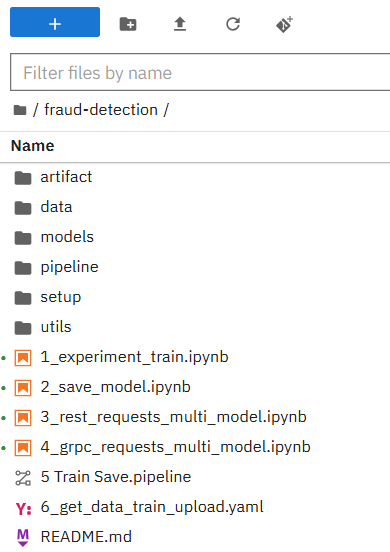
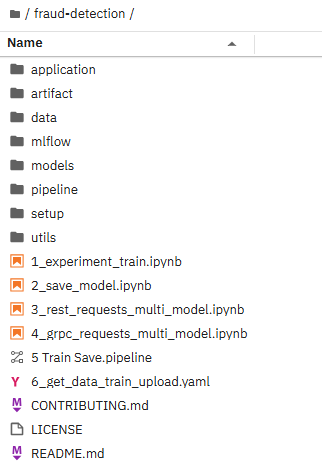
added mlflow setup

diff --git a/docs/openshift-ai/other-projects/fraud-detection-predictive-ai-app.md b/docs/openshift-ai/other-projects/fraud-detection-predictive-ai-app.md
@@ -770,6 +770,46 @@ double click it and execute the "Run" button to run all notebook cells at once.
 This process will take some time to complete. At the end, it will generate and
 save the model `model.onnx` within the `models/fraud/1/` folder path of `fraud-detection`.
 
+##### Adding MLflow to Training Code
+
+!!! info "What is MLflow?"
+
+    [MLflow](../../other-tools/mlflow/mlflow-overview.md) is an open-source platform
+    that helps manage the entire machine learning lifecycle, including experimentation,
+    reproducibility, deployment, and model management. For more information about
+    how to set up your own MLflow server, read [this user guide](../../other-tools/mlflow/mlflow-server-setup.md).
+
+In your Jupyter notebook environment, within the root folder path of `fraud-detection`,
+find the `mlflow` directory. It contains the following files:
+
+- `model.ipynb`: This Jupyter notebook contains the end-to-end machine learning
+    workflow, including data preprocessing, model training, and MLflow logging.
+
+- `requirements.txt`: This file lists all the Python package dependencies needed
+    to run the code in `model.ipynb`.
+
+Go back to your "Fraud detection" workbench and add a new  **Environment Variable**
+to specify the Key/Value pairs related to the your MLflow server by clicking the
+action menu (⋮) at the end of your workbench.
+
+To add Environment variable please follow the following steps:
+
+i. Click on **"Add another key / value pair"** under existing "Environment variables"
+section:
+
+ii. Choose **"Key / Value"** and enter the following keys along with their corresponding
+values, which you have retrieved while "Editing connection":
+
+**Environment Variables**:
+
+    Key: MLFLOW_ROUTE
+    Value: https://mlflow-route-<your-namespace>.apps.shift.nerc.mghpcc.org
+
+![MLflow Route Environment Variable](images/mlflow-route-environment-var.png)
+
+Once you execute the provided `model.ipynb`, you’ll be able to track the entire
+training lifecycle by navigating to your MLflow tracking server at: `https://mlflow-route-<your-namespace>.apps.shift.nerc.mghpcc.org`.
+
 ### 4. Preparing a model for deployment
 
 **Procedure**:

diff --git a/docs/other-tools/mlflow/mlflow-server-setup.md b/docs/other-tools/mlflow/mlflow-server-setup.md
@@ -191,6 +191,12 @@ if __name__ == "__main__":
         # train
 ```
 
+!!! tip "How to add MLflow to your Training Code?"
+
+    You can review this provided **Credit Card Fraud Detection Application** to
+    understand how to integrate MLflow into your model training process. The
+    detailed steps are outlined [here](../../openshift-ai/other-projects/fraud-detection-predictive-ai-app.md#adding-mlflow-to-training-code).
+
 ## Examples
 
 Set up your Python Virtual environment and install all required packages by running:
